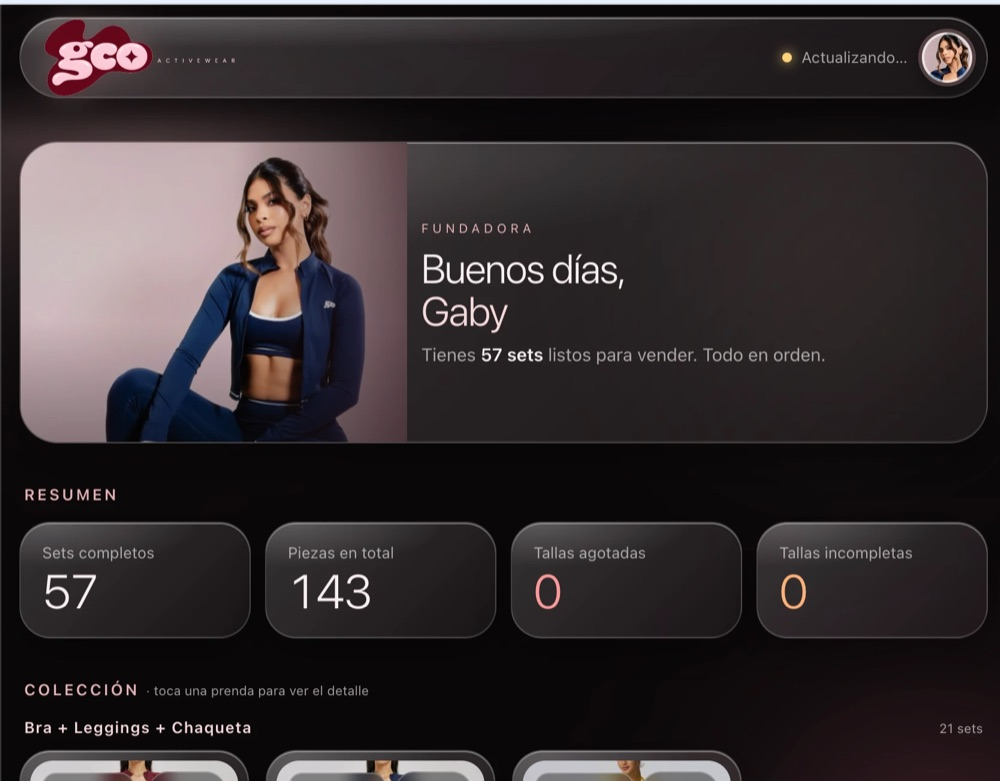
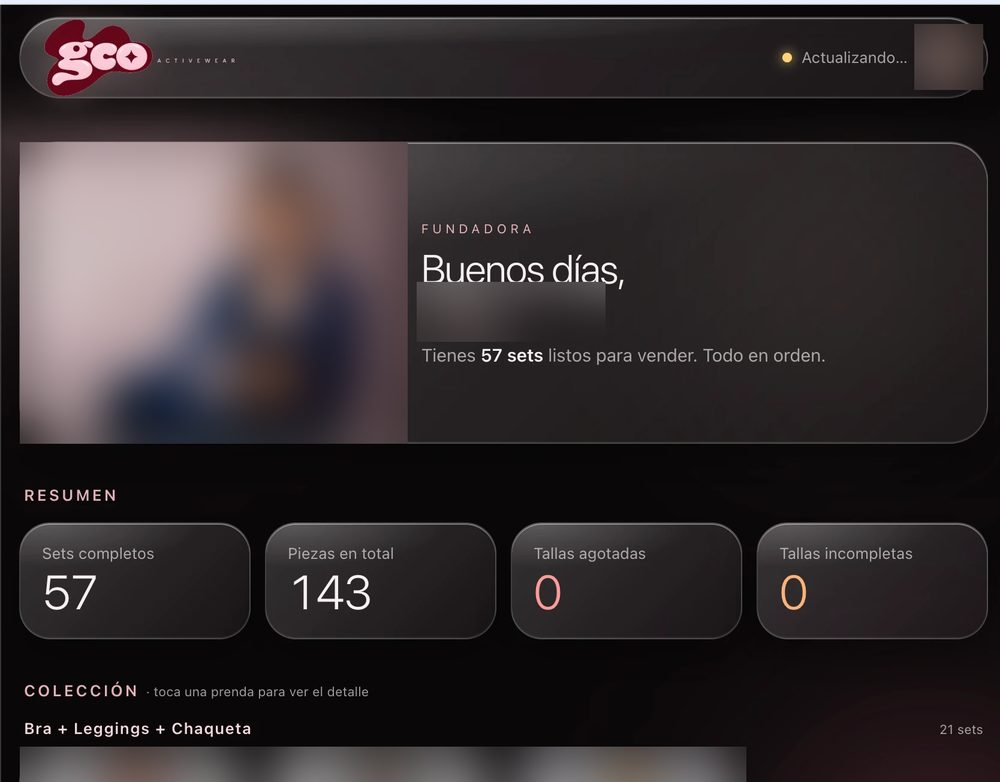
Portafolio: difuminar a la fundadora y miniaturas de GCO, y usar las páginas de campaña de Xolo Run

diff --git a/index.html b/index.html
@@ -656,7 +656,7 @@ footer {
           <h3 data-i18n="p2Name">Xolo Run: CRM de cuentas clave y agentes de IA</h3>
           <p class="prose" data-i18n="p2Problem">El contacto con organizadores de carreras vivía en chats de Instagram y WhatsApp, y no había una vista única de quién respondió y a quién tocaba escribir.</p>
           <ul class="proj-points"><li data-i18n="p2a">Un CRM compartido que clasifica solo a 24 organizadores: confirmados, respondieron, no contestan y sin mensaje.</li><li data-i18n="p2b">Lista «Para hoy» con pasos vencidos y un botón que copia el mensaje y agenda el siguiente seguimiento a 4 días.</li><li data-i18n="p2c">Una automatización lee los DMs lunes y jueves en solo lectura y actualiza los leads. La IA nunca responde: lo envía una persona.</li><li data-i18n="p2d">Reportes semanales en lenguaje simple, con las fallas señaladas a tiempo.</li></ul>
-          <figure class="proj-shots"><img src="img/pwa-bienvenida.jpg" alt="Xolo Run app" loading="lazy" decoding="async"><img src="img/pwa-carreras.jpg" alt="Xolo Run app" loading="lazy" decoding="async"><figcaption data-i18n="capPwa">La app de Xolo Run: bienvenida y catálogo de carreras.</figcaption></figure>
+          <figure class="proj-shots"><img src="img/race-navidena.jpg" alt="Xolo Run: La Gran Navideña" loading="lazy" decoding="async"><img src="img/race-inferno.jpg" alt="Xolo Run: Inferno Mombacho Trail" loading="lazy" decoding="async"><figcaption data-i18n="capPwa">Página de campaña de cada carrera en la app: La Gran Navideña e Inferno Mombacho.</figcaption></figure>
           <p class="result" data-i18n="p2Result">El resultado: una vista única de quién sigue y por qué, con cada seguimiento agendado.</p>
         </article>
         <article class="project-card">
@@ -822,7 +822,7 @@ const T = {
     p4c: "Mensajes separados: para corredores («Inscribirte no debería ser una carrera») y para organizadores («Tu carrera, sin WhatsApp ni Excel»).",
     p4d: "La cuenta @xolorun tiene 793 seguidores en 15 publicaciones.",
     p4Result: "El resultado: más de 350 mil vistas en reels y una audiencia propia para una app que acaba de abrir.",
-    capPwa: "La app de Xolo Run: bienvenida y catálogo de carreras.",
+    capPwa: "Página de campaña de cada carrera en la app: La Gran Navideña e Inferno Mombacho.",
     capIg: "Perfil de @xolorun y sus reels, con las vistas de cada uno.",
     capGco: "La app de GCO: panel con sets completos y stock por talla.",
     recTitle: "Referencia", recStamp: "Verificado ✓",
@@ -893,7 +893,7 @@ const T = {
     p4c: "Separate messages: for runners (“Signing up shouldn’t be a race”) and for organizers (“Your race, without WhatsApp or Excel”).",
     p4d: "The @xolorun account has 793 followers across 15 posts.",
     p4Result: "The result: over 350K reel views and an audience of its own for an app that just opened.",
-    capPwa: "The Xolo Run app: welcome screen and race catalog.",
+    capPwa: "Each race’s campaign page in the app: La Gran Navideña and Inferno Mombacho.",
     capIg: "The @xolorun profile and its reels, with views for each.",
     capGco: "The GCO app: dashboard with complete sets and stock by size.",
     recTitle: "Reference", recStamp: "Verified ✓",
